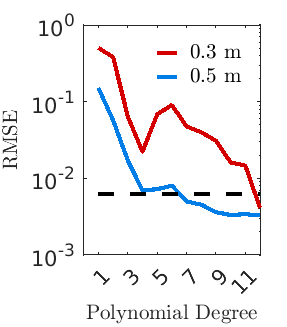
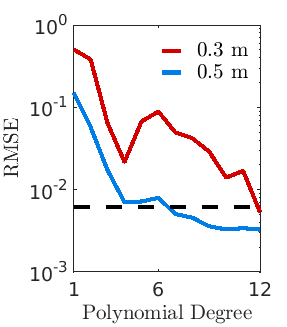
Simulation with straight edge by placing a rectangular diffuse area light source

diff --git a/paper/functions/calculateESF.m b/paper/functions/calculateESF.m
@@ -42,7 +42,6 @@ p.addParameter('rtfname', @ischar);
 p.addParameter('rays',2000, @isnumeric);
 p.addParameter('filmdiagonal', @isnumeric);
 p.addParameter('filmdistance',@isnumeric);
-p.addParameter('scalefactors',@isnumeric);
 p.addParameter('resolution',1000,@isnumeric);
 p.addParameter('degrees',@isnumeric)
 p.addParameter('distances',@isnumeric) % Distances to chart measuerd from lens object side vertex
@@ -54,7 +53,6 @@ filmdiagonal_mm = p.Results.filmdiagonal;
 filmdistance_mm= p.Results.filmdistance;
 rtfName = p.Results.rtfname;
 degrees= p.Results.degrees;
-scaleFactors= p.Results.scalefactors;
 distancesFromLens_mm = p.Results.distances; % mm to meter
 nbRaysPerPixel=p.Results.rays;
 resolution=p.Results.resolution;
@@ -86,11 +84,10 @@ for c=1:numel(cameras)
         disp(['Render Camera ' num2str(c) ' position ' num2str(i)])
         
         % Build the scene
-        thisR=piRecipeDefault('scene name','flatsurface');
+        thisR=piRecipeDefault('scene name','stepfunction');
         
-        % Add chart at depth
-        positionXY = [0 0];% Center
-        addLightSourceEdge(thisR,distancesFromFilm_meter(i));
+        % Control Distance to Step Funtion Chart
+         setChartDistance(thisR,distancesFromFilm_meter(i));
         %
         thisR.set('camera',cameras{c});
         thisR.set('spatial resolution',[resolution 1]);
@@ -103,7 +100,7 @@ for c=1:numel(cameras)
         [oi log] = piRender(thisR,'render type','radiance','dockerimagename','vistalab/pbrt-v3-spectral:latest');
         oi.name=['Chart distance from film: ' num2str(distancesFromFilm_meter(i))]
         oiList{c,i}=oi;
-        %oiWindow(oi)
+        
     end
     
 end
@@ -147,29 +144,64 @@ for i=1:numel(distancesFromFilm_meter)
 end
 
 
-%%% 
-
-
-%% Add A step function using an area light in PBRT
-% I did not find how to make a square light source so I made a very large circular
-% light source offset by its radius. This approximates a step function on
-% the horizontal line.
- function thisR = addLightSourceEdge(thisR,distanceFromFilm)
-     % Orient the camera the way I want it, making it easy for me   
-     thisR.lookAt.from= [0 0 0];        thisR.lookAt.to= [0 0 1] ;
-        piLightDelete(thisR,1) % delete all other light sources in the scene
-        
-        
-        radius=4; % Choose a large radius for the circle
-        
-        % Create offset circle area light
-        light=piLightDiskCreate('position',[-radius 0 distanceFromFilm],'radius',radius)
-        
-        % Add light to recipe
-        thisR=piAddLights(thisR,{light})
-        
-
+%%
+% The distance to the stepfunction chart, positioned at the xy-plane at z=0, is controlled by changing the distance of the
+% camera. 
+function thisR = setChartDistance(thisR,distanceFromFilm)
+    thisR.lookAt.from= [0 0 -distanceFromFilm];
+    thisR.lookAt.to= [0 0 1] ;
+    thisR.lookAt.up=[ 0 1 0];
 end
+
+
+
+
+
+% 
+% %% Add A step function using an area light in PBRT
+% % I did not find how to make a square light source so I made a very large circular
+% % light source offset by its radius. This approximates a step function on
+% % the horizontal line.
+%  function thisR = addLightSourceEdge(thisR,distanceFromFilm)
+%      % Orient the camera the way I want it, making it easy for me   
+%      thisR.lookAt.from= [0 0 0];        thisR.lookAt.to= [0 0 1] ;
+%         piLightDelete(thisR,1) % delete all other light sources in the scene
+%         
+%         
+%         radius=1e4; % Choose a large radius for the circle
+%         
+%         % Create offset circle area light
+%         light=piLightDiskCreate('position',[-radius 0 distanceFromFilm],'radius',radius)
+%         
+%         % Add light to recipe
+%         thisR=piAddLights(thisR,{light})
+%         
+% 
+%  end
+
+
+
+% function pointsource = piLightDiskCreate(varargin)
+% % Create a diffuse Area source in the shape of disk
+% % By default the normal vector on the disk is pointing in the z-direction
+% 
+% p = inputParser;
+% p.addParameter('position', @isnumeric);
+% p.addParameter('radius', @isnumeric)
+% p.parse(varargin{:});
+% 
+% position_meters= p.Results.position;
+% radius_meters= p.Results.radius;
+% 
+% pointsource =  piLightCreate('diffuse disk source',...
+%     'type','area');
+%     
+% pointsource.translation.value = {[position_meters]};
+% shape.radius=radius_meters;
+% shape.meshshape='disk';
+% pointsource.shape.value=shape;
+% 
+% end
 
 
 

diff --git a/paper/generateESFFigures.m b/paper/generateESFFigures.m
@@ -133,13 +133,13 @@ for i=1:numel(config)
     c=config{i};
     disp(['Generate ESF for ' c.rtfname])
     [esf,pixels,noisefloorTemp]=calculateESF('rtfName',c.rtfname,'distances',c.distances,...
-        'scalefactors',c.scalefactors,'filmdistance',c.filmdistance_mm,'filmdiagonal',c.filmdiagonal_mm,...
+        'filmdistance',c.filmdistance_mm,'filmdiagonal',c.filmdiagonal_mm,...
         'rays',c.rays,'degrees',c.degrees,'resolution',c.resolution);
 
     esfPBRT{i}=esf;
     noisefloor{i}=noisefloorTemp;
     pixelsPBRT{i}=pixels;
-    
+
 
 end
 
@@ -166,9 +166,9 @@ for i=1:numel(config)
     
       if(c.rtfname == "dgauss28deg-zemax")
        % Add label for rendering noise level
-       text(0.1,1.8e-3,sprintf('RMS Rendering Noise'),'interpreter','latex','fontsize',8.5)
+       text(1.1,1.8e-3,sprintf('RMS Rendering Noise'),'interpreter','latex','fontsize',8.5)
       end
-      
+      xlim([1 max(c.degrees)])
       
 %    exportgraphics(gcf,['./fig/ESF/esf-logerror-' c.rtfname '.pdf'])
     saveas(gcf,['./fig/ESF/esf-logerror-' c.rtfname '.png'])

diff --git a/paper/functions/plotESFerror.m b/paper/functions/plotESFerror.m
@@ -45,17 +45,19 @@ for p=1:numel(distances)
 end
 xlabel('Polynomial Degree')
 ylabel('RMSE')
-if(numel(degrees)<=8)
-    xticks(degrees)
+if(numel(degrees)<=10)
+   xticks(degrees([1:2:end]))
 else
-     xticks(degrees(1:2:end))
+  xticks(degrees([1:4:end]))
 end
+  xticks(degrees([1  round(end/2) end]))
+
 % Figure styles
 box on
 
 
 
-set(findall(gcf,'-property','FontSize'),'FontSize',10);
+%set(findall(gcf,'-property','FontSize'),'FontSize',10);
 set(findall(gcf,'-property','interpreter'),'interpreter','latex');
 roundedDistanceMeter= round(distances(2)/1000,1);
 if(roundedDistanceMeter ==0)
